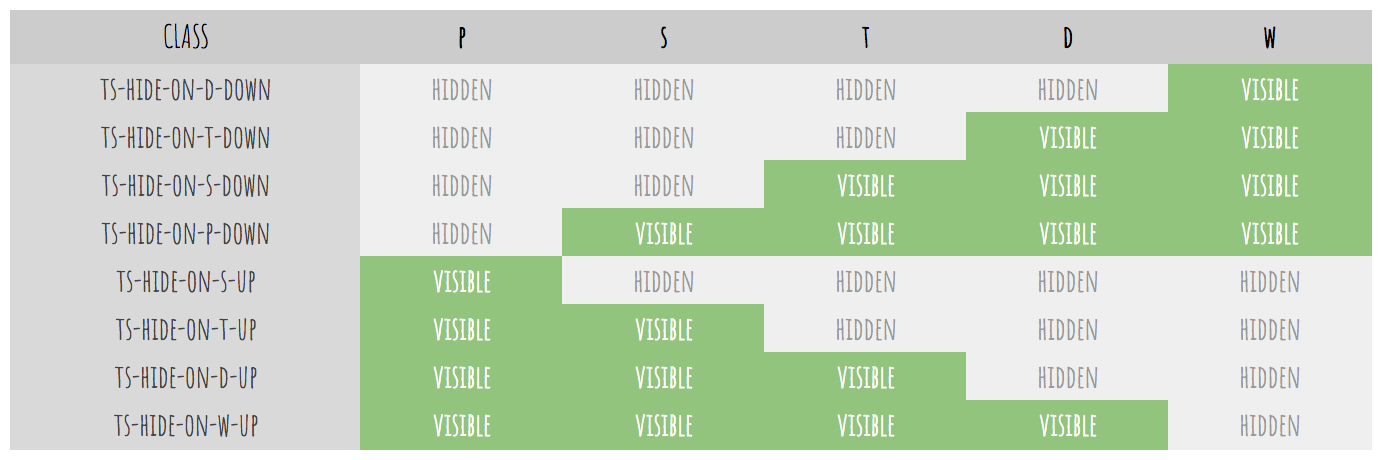
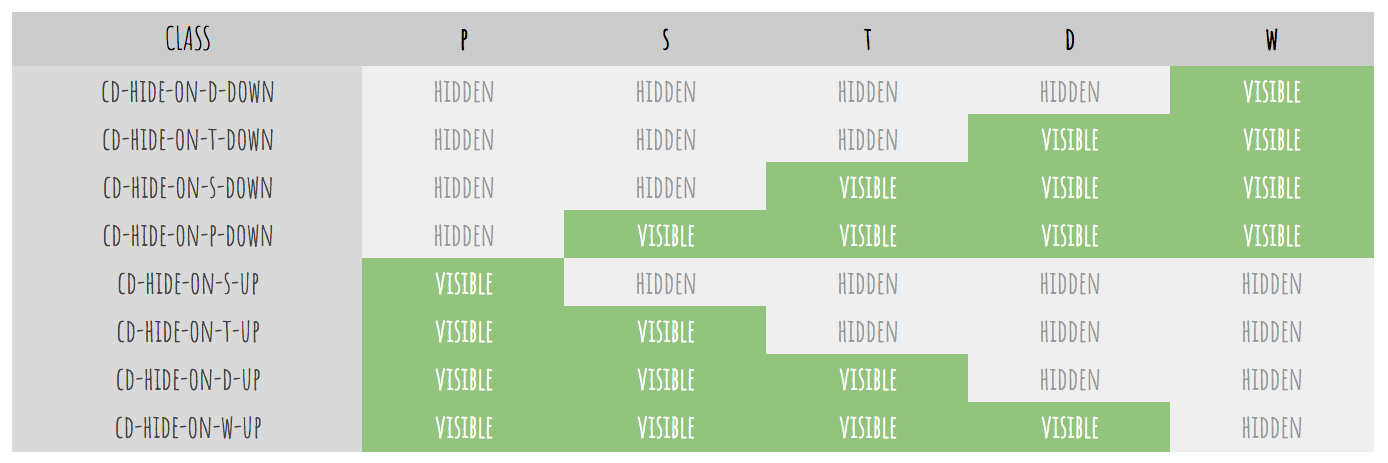
SCSS-0: Update

diff --git a/app/code/scss/core/components/_helpers.scss b/app/code/scss/core/components/_helpers.scss
@@ -49,7 +49,7 @@
 		@include cd-media($platform, $device) {
 			// exclude widescreen for desktop platform and portrait for mobile desktop: redundancy
 			@if ($platform == $platform-desktop and $deviceFirstLetter != 'w' or $platform == $platform-mobile and $deviceFirstLetter != 'p') {
-				.ts-hide-on-#{$deviceFirstLetter}-#{$direction} {
+				.cd-hide-on-#{$deviceFirstLetter}-#{$direction} {
 					display: none;
 				}
 			}

diff --git a/documentation/guide.md b/documentation/guide.md
@@ -267,12 +267,12 @@ cd-hidden
 
 ![Visibility Chart](https://github.com/imransilvake/SCSS-Boilerplate/blob/master/documentation/resources/classes-visibility-chart.png)
 ```
-You can combine one .ts-hide-*-up and one .ts-hide-*-down class to show an element only on a given interval of screen sizes.
+You can combine one .cd-hide-*-up and one .cd-hide-*-down class to show an element only on a given interval of screen sizes.
 
 Example:
-ts-hide-on-s-down & ts-hide-on-d-up: shows the element only on tablet viewport. 
+cd-hide-on-s-down & cd-hide-on-d-up: shows the element only on tablet viewport. 
 
-Using multiple .ts-hide-*-up or .ts-hide-*-down classes is redundant and pointless.
+Using multiple .cd-hide-*-up or .cd-hide-*-down classes is redundant and pointless.
 ```
 
 #### Position

diff --git a/README.md b/README.md
@@ -45,6 +45,8 @@ Please follow the link for the documentation: [GUIDE](documentation/guide.md)
 
 
 ## Future Work
+The core of the framework is complete and for the future work, I will only add helpers or widgets.
+
 - [ ] Helpers
   - [ ] Fixed & Fluid Columns
 - [ ] Widgets
@@ -54,7 +56,7 @@ Please follow the link for the documentation: [GUIDE](documentation/guide.md)
 
 ## Layouts
 - [X] User Profile (Resume)
-- [ ] Home Page
+- [ ] WebSite Sample
 
 
 ## Support
